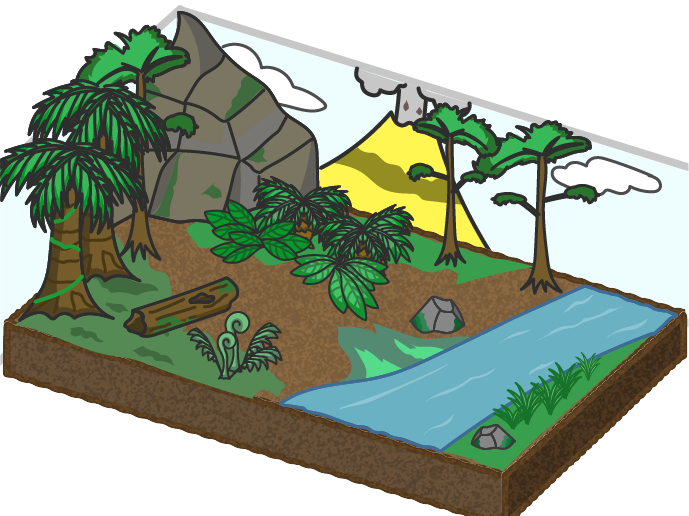
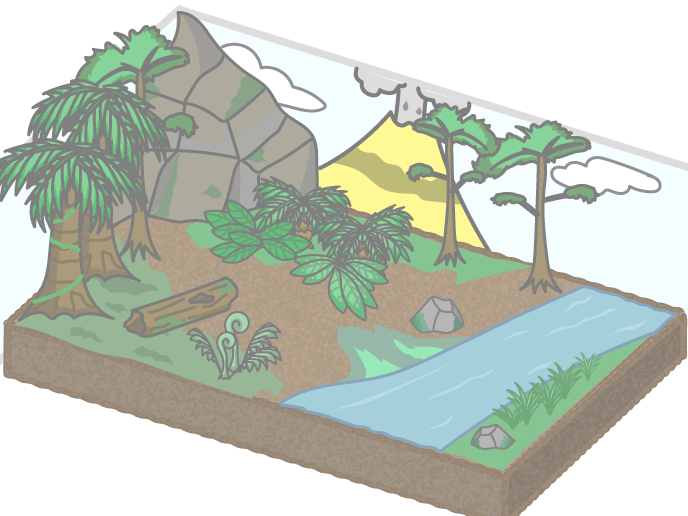
古代の水槽背景: オブジェを薄くした版に差し替え、コードのベールを外す

diff --git a/src/components/roadmap/kuwagata-shelf.tsx b/src/components/roadmap/kuwagata-shelf.tsx
@@ -2593,9 +2593,7 @@ function tankBgStyle(isAquarium: boolean, isAncient = false): CSSProperties {
     : isAncient
     ? "linear-gradient(to bottom, #ecfeff, #bbf7d0)"
     : "linear-gradient(to bottom, #e0f2fe, #ffffff)";
-  // 古代の森は絵のオブジェが多いので、薄い白を被せて生きものを見やすくする。
-  const veil = isAncient ? "linear-gradient(rgba(255,255,255,0.45), rgba(255,255,255,0.45)), " : "";
-  return { backgroundImage: `${veil}url(${url}), ${fallback}` };
+  return { backgroundImage: `url(${url}), ${fallback}` };
 }
 
 function EnlargedTankVisual({
